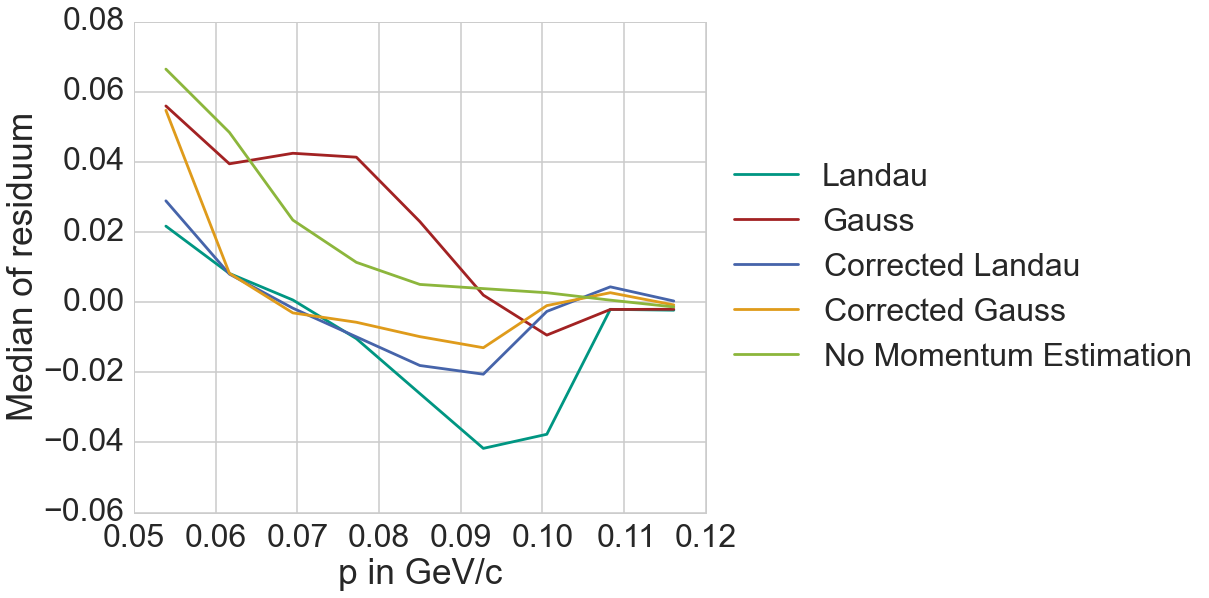
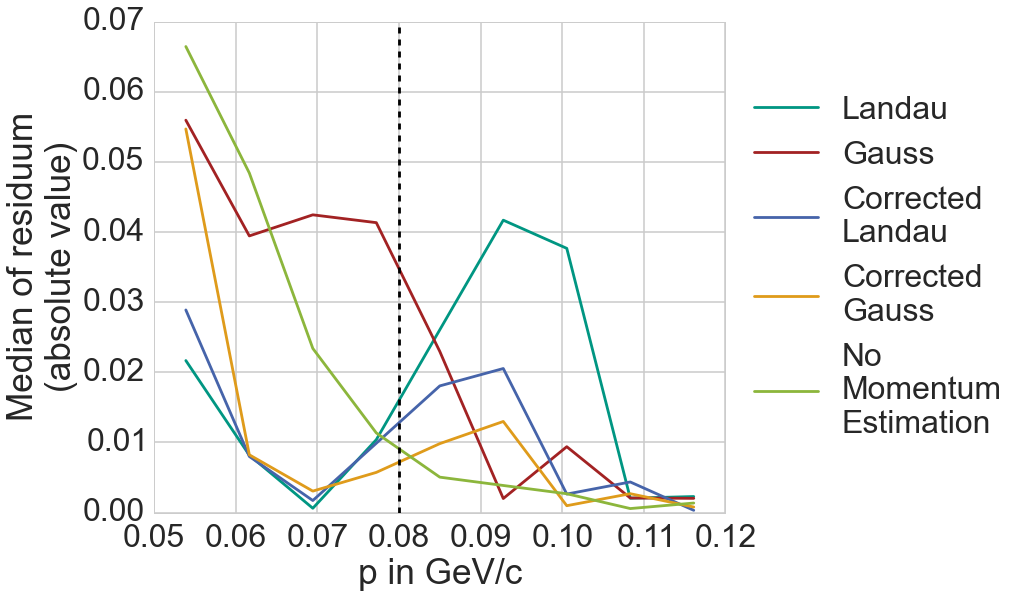
Thomas corrections

diff --git a/tex/vxd.tex b/tex/vxd.tex
@@ -38,7 +38,6 @@ For the following studies an event sample of 35000 events with slow pions in the
  \centering
  \includegraphics[width=0.48\linewidth]{figures/vxd/finding_efficiency.png}
  \includegraphics[width=0.48\linewidth]{figures/vxd/finding_efficiency_mc.png}
- \todo{why is there a drop?}
  \caption[Momentum distribution of the found and simulated pions.]{Momentum distribution of the simulated pions as found by the VXD track finder (left) and the MC track finder (right), which has the simulated truth information. The finding efficiency decreases with lower momenta as the number of hits in the VXD is lower for slow pions and the energy loss is larger. The MC track finder does not have a flat distribution of momenta either, because it requires tracks which have at least 3 hits in the VXD detector.}
  \label{fig-vxd-finding-efficiency}
 \end{figure}
@@ -80,7 +79,7 @@ The different possibilities are ordered by their anticipated correctness. The tw
 Besides the last possibility, all modes rely on calculating the path length of a trajectory using their helix parameters. As the path lengths are very small, this is done without taking into account energy loss or material effects. The procedure is as follows:
 \begin{zlist}
  \item Take the position of the cluster hit (the point where the trajectory enters the VXD sensor) and calculate the distance to the beam line. This is called the inner radius of the cluster.
- \item Add the sensor thickness to this radius to obtain an estimation of the outer radius of the sensor.\footote{This could also be done using a lookup to the database with the sensor specifications. But as all sensors in one detector have the same thickness, this would just lead to an increased performance time and not to more precise results.}
+ \item Add the sensor thickness to this radius to obtain an estimation of the outer radius of the sensor.\footnote{This could also be done using a lookup to the database with the sensor specifications. But as all sensors in one detector have the same thickness, this would just lead to an increased performance time and not to more precise results.}
  \item Calculate the arc length between these two radii and from this arc length the distance between the two penetration points of the helix through the sensor using trigonometrical relations.
 \end{zlist}
 
@@ -93,7 +92,7 @@ This procedure is correct for most of the time but fails in some rare cases. Som
   \raisebox{-0.65\height}{\includegraphics[scale=0.3]{figures/vxd/pathlength3.pdf}}
   \hspace*{0.5cm}
   \raisebox{-0.5\height}{\includegraphics[scale=0.3]{figures/vxd/pathlength4b.pdf}}
-  \caption[Exemplary cases of path length calculations.]{Exemplary cases of path length calculations. The algorithm fails in the second and last case. In the second case it returns the width or the length of the sensor instead. In the last case it wrongly adds the orange part of the path length to the correct one. Because of the geometrical dimensions of the sensors these two cases are very rare.}
+  \caption[Exemplary cases of path length calculations.]{Exemplary cases of path length calculations. The algorithm fails in the second and last case. In the second case it returns the width or the length of the sensor instead. In the last case it wrongly adds the orange part of the path length to the correct one. This could corrected by using a lookup in the geometry database, but because of the geometrical dimensions of the sensors these two cases are very rare.}
   \label{fig-errors-in-path-length}
 \end{figure}
 
@@ -119,7 +118,7 @@ with the free parameters $a, b, c$ and $d$ is fitted to the $\mathrm d E / \math
 
 
 \footnotetext{The box in the boxplot indicates the quartile range, whereas the big horizontal lines describes the median value. The smaller horizontal lines at the top and at the bottom show the maximum and minimum value -- except for outliers.}
-The free parameters can not be determined by fitting the model function to the whole dataset at once as shown for example in figure~\ref{fig-dedx-over-p}. The reason is that because of the Landau distributed energy loss the number of outliers is too high and causes the fit to fail. An example of the Landau distribution showing the large amount of outliers deviating from the mean energy loss is shown in figure~\ref{fig-landau}. This is why a reducing approach is chosen here: First the $\mathrm d E / \mathrm d x$-range is split into several small bins. In each of them the momentum distribution is build. This distribution is then fitted with a Landau or a normal distribution. Mathematically, the momentum distribution in these $\mathrm d E / \mathrm d x$-bins is neither distributed according to a Landau nor a normal distribution but the correct form can not be calculated analytically and these two distributions describe the data best.\footnote{The correct form of the distribution can be calculated by integrating over parts of the Landau distribution folded with the inverted Bethe-equation, which is not analytically solvable.} The resulting parameters of the distributions (the mean of the normal or the location parameter of the Landau distribution~\cite{landau}) are then used for fitting the model function in equation (\ref{form-model}). The whole process can be seen in figure~\ref{fig-fit-bins}.
+The free parameters can not be determined by fitting the model function to the whole dataset at once as shown for example in figure~\ref{fig-dedx-over-p}. The reason is that because of the Landau distributed energy loss the number of outliers is too high and causes the fit to fail. An example of the Landau distribution showing the large amount of outliers deviating from the mean energy loss is shown in figure~\ref{fig-landau}. This is why a reducing approach is chosen here, which can be imagined as a simplified maximum likelihood fit: First the $\mathrm d E / \mathrm d x$-range is split into several small bins. In each of them the momentum distribution is build. This distribution is then fitted with a Landau or a normal distribution. Mathematically, the momentum distribution in these $\mathrm d E / \mathrm d x$-bins is neither distributed according to a Landau nor a normal distribution but the correct form can not be calculated analytically and these two distributions describe the data best.\footnote{The correct form of the distribution can be calculated by integrating over parts of the Landau distribution folded with the inverted Bethe-equation, which is not analytically solvable.} The resulting parameters of the distributions (the mean and the variance of the normal or the location parameter and full width at half maximum of the Landau distribution~\cite{landau}) are then used for fitting the model function in equation (\ref{form-model}). The whole process can be seen in figure~\ref{fig-fit-bins}.
 
 \begin{figure}
   \centering
@@ -138,18 +137,18 @@ The free parameters can not be determined by fitting the model function to the w
 
 For the incorporation of the gained momentum estimation into the track fit of genfit, not the momentum value directly but $q/p$ is needed. This is why in the following the residuum of $p^{-1}$ instead of $p$ is presented.
 
-In the two subplots of figure~\ref{fig-divp-residuum} the median and the interquartile range of the residuum of the estimated to the MC momentum is shown. As both fit functions (normal and Landau) lead to quite large shifts in the median, indicating a biased momentum estimation a correction procedure is introduced: a cubic polynomial is fitted to the median values which is later subtracted from the momentum estimation. These corrected estimators are also shown in the figure. They do unbias the residuum but increase the interquartile range as a trade-off.
+In the two subplots of figure~\ref{fig-divp-residuum} the median and the interquartile range of the residuum of the estimated to the MC momentum is shown. The median and the interquartile range (distance between the 25th percentile and the 75th percentile) are used here, as they are more robust compared to the mean and the standard deviation. As both fit functions (normal and Landau) lead to quite large shifts in the median, indicating a biased momentum estimation, a correction procedure is introduced: a cubic polynomial is fitted to the median values which is later subtracted from the momentum estimation. These corrected estimators are also shown in the figure. They do unbias the residuum but increase the interquartile range as a trade-off.
 
 \begin{figure}
   \centering
    \includegraphics[width=0.48\linewidth]{figures/vxd/divPMedian.png}
    \includegraphics[width=0.48\linewidth]{figures/vxd/divPIQR.png}
-  \caption[Median and IQR of $1/p$.]{The median (left) and the interquartile range (right) of the residuum between $1/p$ calculated with the estimator function and the MC information over the MC momentum. For all path length calculations the MC information at the hit is used. Together with the two fit functions Landau and normal distribution also the median-corrected estimators (as described in the text) are shown.}
+  \caption[Median and IQR of $1/p$.]{The absolute value of the median (left) and the interquartile range (right) of the residuum between $1/p$ calculated with the estimator function and the MC information over the MC momentum. For all path length calculations the MC information at the hit is used. Together with the two fit functions Landau and normal distribution also the median-corrected estimators (as described in the text) are shown.}
   \label{fig-divp-residuum}
 \end{figure}
 
 
-Besides the here presented two methods to gain the estimator function $p(\mathrm dE/\mathrm dx)$, also other fit models instead of equation (\ref{form-model}), other fit functions instead of Landau and normal distribution and totally different methods like a boosted decision tree for regressions were tested. As all of these methods show worse results, they are not presented here. They can be easily compared to the mentioned results by using the IPython notebooks in the repository.
+Besides the here presented two methods to obtain the estimator function $p(\mathrm dE/\mathrm dx)$, also other fit models instead of equation (\ref{form-model}), other fit functions instead of Landau and normal distribution and totally different methods like a boosted decision tree for regressions were tested. As all of these methods show worse results, they are not presented here. They can be easily compared to the mentioned results by using the IPython notebooks in the basf2 repository.
 
 \section{Incorporation in the track fit}
 
@@ -157,33 +156,25 @@ Before describing the results of the momentum resolution with and without the ne
 
 The idea of the genfit package as a generalized track fitting package is not to rely on a certain detector configuration but rather treat the measured hits in a general form. For this, every hit is transformed into a derived class of an \texttt{AbsMeasurement}. This measurement can hold up to five general coordinate measurements, which are two local coordinates $u$ and $v$, two local direction coordinates $u'$ and $v'$ and a coordinate for $q/p$. The measurement stores also the error matrix of these measurements and a generalized plane one which the measurements and the local coordinates are defined. The user does not have to provide all coordinate measurement in every \texttt{AbsMeasurement}. This general scheme makes it possible to incorporate all different results of the measuring detectors, e.g. VXD hits (which define a plane as the sensor plane and give one coordinate measurement of $u$ or $v$ for each strip in the case of SVD hits and both coordinates for PXD hits) or CDC wire hits (where the definition of a plane is more difficult, leading to a redefinition of the plane in every fit iteration). As the real detector measurements are uncoupled from the fitting algorithm, the implemented fitters do not have to be adopted to cope with different detectors.
 
-To include the momentum estimation based on the \dedx value into the fit, one has therefore to include another \texttt{AbsMeasurement} into the tracks for each VXD hit which is only filled with the $q/p$-coordinate and has the same plane as the positional measurement for this VXD hit. Another possibility would be to include this coordinate in the already created positional measurements (by filling the two local positions $u$ and $v$ and the $q/p$ coordinate). The downside of this approach is that the DAF described in chapter~\ref{chapter-theory} is then only able to downweight the whole measurement with the positional and the momentum coordinates and not the single measurement types only.
+To include the momentum estimation based on the \dedx value into the fit, one has therefore to include another \texttt{AbsMeasurement} into the tracks for each VXD hit which is only filled with the $q/p$-coordinate and has the same plane as the positional measurement for this VXD hit. Another possibility would be to include this coordinate in the already created positional measurements (by filling the two local positions $u$ and $v$ and the $q/p$ coordinate). The downside of this approach is that the DAF described in chapter~\ref{chapter-theory} is then only able to downweight the whole measurement with the positional and the momentum coordinates and not the single measurement types only as it is only able to give weights to the whole \texttt{AbsMeasurement}. Until the correct covariances of the momentum estimation is implemented, the fitting algorithm needs to be able to dismiss the newly created measurement if it is too far off. In the following however, only the Kalman will be used for fitting the tracks.
 
 \subsection{Code basis for the fitting procedure}
 
-While adding the momentum estimation to the VXD hits, the whole fitting framework in basf2 was rewritten to make it more flexible and general. The former \texttt{genfit::Track} and the \texttt{genfit::TrackCand} where merged into the \texttt{RecoTrack} based on the \texttt{genfit::Track} which suits better to the StoreArray-scheme of the framework. Together with the new \texttt{RecoTrack} also other modules for fitting had to be written. The former \texttt{GenFitter} module was split up into smaller modules, each handling a single task. In the following, only the \texttt{MeasurementCreatorModule} will be described. More information on the \texttt{RecoTrack} and the other modules can be found in chapter~\ref{chapter-addon}.
+While adding the momentum estimation to the VXD hits, the whole fitting framework in basf2 was rewritten to make it more flexible and general. The former \texttt{genfit::Track} and the \texttt{genfit::TrackCand} where merged into the \texttt{RecoTrack} based on the \texttt{genfit::Track} which suits the StoreArray-scheme of the framework better. Together with the new \texttt{RecoTrack} also other modules for fitting had to be written. The former \texttt{GenFitter} module was split up into smaller modules, each handling a single task. More technical details on the \texttt{RecoTrack} and the newly created modules can be found in chapter~\ref{chapter-addon}.
 
-The task of this module is to create the measurements for each hit added to the \texttt{RecoTrack} by the track finding algorithms. The measurements can then be used by the track fitting routine. The \texttt{MeasurementCreatorModule} does so by calling configurable \texttt{MeasurementCreator} objects on all hits which can create a measurement out of the hit and the \texttt{RecoTrack}. There are preconfigured \texttt{MeasurementCreator} classes for turning the found hits into normal positional measurements like it was done before by the \texttt{GenFitterModule}. To handle the configuration of these \texttt{MeasurementCreator} objects in an easier way, the factory design pattern was used for the module. Each type of \texttt{MeasurementCreator} objects (for looping over SVD, PXD or CDC hits found by the track finder or for no underlaying track finder hit at all) has an \texttt{MeasurementCreatorFactory}. These factories handle the configuration and initialization of the \texttt{MeasurementCreator} objects which in turn create measurements and add them to the \texttt{RecoTrack}. The configuration of the factories can be done via dictionaries passed as module parameters in the steering files. The whole process is shown in figure~\ref{fig-measurement-creator}.
-
-\begin{figure}
-  \centering
-  \includegraphics[width=\linewidth]{figures/vxd/measurementCreator.pdf}
-  \caption[Diagram showing the creation of measurements.]{Diagram showing the creation of measurements in the \texttt{MeasurementCreatorModule} as described in the text. Each \texttt{RecoTrack} includes PXD, SVD and CDC hits (blue) added by the track finder algorithms which must be transformed into \texttt{AbsMeasurement} objects (orange) to be handled by the track fitting routine later. These measurements can include positional, directional and/or $q/p$ coordinate values with their errors.}
-  \label{fig-measurement-creator}
-\end{figure}
-
-The momentum estimation of the VXD hits is included into the fit as another measurement -- created by a \texttt{MeasurementCreator} object. The measurements are created before the track fit but get called for their parameters in every fitting iteration right before the fit uses the coordinates in the measurement. This fact can be used to calculate the plane (as used in the CDC hits) or the coordinates just before using them. Therefore it is possible to use the fitted state right in front of the hit to calculate the path length as described in subsection~\ref{subsection-calc}. Together with the estimation for $q/p$, also the error on this coordinate has to be included into the \texttt{AbsMeasurement}. This error can be calculated using the MC momentum used for calculating the estimator function and comparing it to the estimator function result. The error is fixed to 0.3 in the moment, which was calculated using the $q/p$ distribution shown before, but can in principle be also calculated for every measurement independently.
+The momentum estimation of the VXD hits is included into the fit as another measurement. The measurements are created before the track fit but get called for their parameters in every fitting iteration right before the fit uses the coordinates in the measurement. This fact can be used to calculate the plane (as used in the CDC hits) or the coordinates just before using them. Therefore it is possible to use the fitted state right in front of the hit to calculate the path length as described in subsection~\ref{subsection-calc}. Together with the estimation for $q/p$, also the error on this coordinate has to be included into the \texttt{AbsMeasurement}. This error can be calculated using the MC momentum used for calculating the estimator function and comparing it to the estimator function result. The relative error is fixed to 0.3 in the moment, which was calculated using the $q/p$ distribution shown before, but can in principle be also calculated for every measurement independently.
 
 \subsection{Resolution after track fitting}
 
-The above described estimation is included as a \texttt{MeasurementCreator} for SVD and PXD hits. With this, the pion tracks in the momentum range of 50 -- 100 MeV are fitted using the Kalman filter. Then the momentum calculated in the fit is compared to the one used in the MC simulation. To show the resolution in an easier way, the median and the interquartile range for the residuum is calculated. They can be seen in figure~\ref{fig-results-fit} for both fit functions Landau and Gauß (with their median-corrected estimators also) and for the different path length calculations in figure~\ref{fig-results-fit2}.
+The above described estimation is included as a \texttt{MeasurementCreator} for SVD and PXD hits. With this, the pion tracks in the momentum range of 50 -- 100 MeV are fitted using the Kalman filter. Then the momentum calculated in the fit is compared to the one used in the MC simulation. To show the resolution in an easier way, the median and the interquartile range for the residuum is calculated. They can be seen in figure~\ref{fig-results-fit} for both fit functions Landau and Gauß (with their median-corrected estimators also) and for the different path length calculations in figure~\ref{fig-results-fit2} together with the distribution for the Landau fit function for a particular value of the momentum.
 
 \begin{figure}
   \centering
   \includegraphics[width=0.48\linewidth]{figures/vxd/kalman0_3Median.png}
   \includegraphics[width=0.48\linewidth]{figures/vxd/kalman0_3IQR.png}
   \includegraphics[width=0.48\linewidth]{figures/vxd/kalman0_3Count.png}
-  \caption[Residuum of the momentum estimation for different fit functions.]{Figure showing the median (top left) and the interquartile range (top right) for the residuum between the MC momentum and the momentum coming from the track fit with or without the momentum estimation based on the energy loss information. The two different fit functions Landau and norm (like described in subsection~\ref{subsection-transform}) are both shown here. The third plot (bottom) shows the number of successful fits.}
+  \includegraphics[width=0.48\linewidth]{figures/vxd/residuum_histogram.png}
+  \caption[Residuum of the momentum estimation for different fit functions.]{Figure showing the absolute value of the median (top left) and the interquartile range (top right) for the residuum between the MC momentum and the momentum coming from the track fit with or without the momentum estimation based on the energy loss information. The two different fit functions Landau and norm (like described in subsection~\ref{subsection-transform}) are both shown here. The third plot (bottom left) shows the number of successful fits and the last plot (bottom right) an exemplary histogram of the $q/p$-residuum for tracks in the order of $\unit[60]{MeV}$.}
   \label{fig-results-fit}
 \end{figure}
 
@@ -193,13 +184,13 @@ The above described estimation is included as a \texttt{MeasurementCreator} for 
   \includegraphics[width=0.48\linewidth]{figures/vxd/landauKalman0_3Median.png}
   \includegraphics[width=0.48\linewidth]{figures/vxd/landauKalman0_3IQR.png}
   \includegraphics[width=0.48\linewidth]{figures/vxd/landauKalman0_3Count.png}
-  \caption[Residuum of the momentum estimation for different path length calculations.]{Figure showing the median (top left) and the interquartile range (top right) of the residuum and the number of successful fits (bottom) as in figure~\ref{fig-results-fit}. This time the different path length calculations are shown for the case of using a Landau distribution for fitting the \dedx values.}
+  \caption[Residuum of the momentum estimation for different path length calculations.]{Figure showing the absolute value of the median (top left) and the interquartile range (top right) of the residuum and the number of successful fits (bottom) as in figure~\ref{fig-results-fit}. This time the different path length calculations are shown for the case of using a Landau distribution for fitting the \dedx values.}
   \label{fig-results-fit2}
 \end{figure}
 
-As it can be seen in the result figures, the incorporation of the VXD momentum estimation into the track fit can increase the resolution of the momentum quite drastically for low momentum tracks while also increasing the number of successful fits. As the Landau seems to perform slightly better than the Gauß fitted estimator function, these values are used in the following. Although the median-corrected functions should theoretically behave better, the resolution could not be increased. This may come from the worsen interquartile range of the corrected estimators as seen in figure~\ref{fig-divp-residuum}. The differences between the different path length calculations are not that big as expected from the prestudies of the path lengths. As described before, the calculation with the MC track parameters at the hit perform best followed by the track parameters at the hit while fitting. The differences are very small as the fitted parameters and the MC parameters are similar enough. For momenta above 100 MeV the estimator gives worse results as it can be also seen in figure~\ref{fig-dedx-over-p}. This is why the momentum resolution deteriorates for higher momenta. There is already a cut for only applying the momentum estimation for low-momentum-tracks, but because of implementation details in the genfit package this cut can only be evaluated before the fit -- using the track finder seed parameters. As these parameters often underestimate the momentum (because of energy losses due to material effects), the momentum estimation gets applied although the estimator is not build for this momentum region. To solve this problem, a ``smarter'' cut should be introduced.
+As it can be seen in the result figures, the incorporation of the VXD momentum estimation into the track fit can increase the resolution of the momentum quite drastically for low momentum tracks (figure top right) in the range below $\unit[80]{MeV}$. Additionally and also important it increases the number of successful fits (figure bottom left). To not bias the analysis with the newly fitted tracks, the studies were also performed by using only those tracks that were fitted in all of the mentioned methods which leads to the same results and is therefore not presented here. As the Landau seems to perform slightly better than the Gauß fitted estimator function (overall IQR of the $q/p$-residuum of 0.0929 compared to 0.0951 for Gauß), these values are used in the following. Although the median-corrected functions should theoretically behave better, the resolution could not be increased. This may come from the worsen interquartile range of the corrected estimators as seen in figure~\ref{fig-divp-residuum}. The differences between the different path length calculations are not that big as expected from the prestudies of the path lengths. As described before, the calculation with the MC track parameters at the hit performs best followed by the track parameters at the hit while fitting. The differences are very small as the fitted parameters and the MC parameters are similar enough. The reslution could however only be increased for momenta below $\unit[80]{MeV}$. The reason is, that for momenta above $\unit[80]{MeV}$ the estimator gives worse results as it can be also seen in figure~\ref{fig-dedx-over-p}. There is already a cut for only applying the momentum estimation for low-momentum-tracks, but because of implementation details in the genfit package this cut can only be evaluated before the fit -- using the track finder seed parameters. As these parameters often underestimate the momentum (because of energy losses due to material effects), the momentum estimation gets applied although the estimator is not build for this momentum region. To solve this problem, a ``smarter'' cut should be introduced, e.g.\ by giving large errors on the momentum estimations in tracks where they should not be used.
 
-Besides the momentum resolution, the resolution of the other helix parameters should not be decreased by the momentum estimation measurements. The perigee position of the fitted tracks with and without the momentum estimation with the Landau fit function and path lengths from the track fit state is shown in figure~\ref{fig-position}. As all tracks where simulated using a particle gun at the origin, the position should be exactly zero. For better comparison with the typical validation plots shown in the collaboration, the VXD and CDC tracks are merged and fitted together. As it can be seen in the picture, the resolution in the position is reduced by introducing the momentum estimation into the fit. One reason for this is probably the neglected correlation between the momentum estimation and the position measurement. Another issue is the fixed error of the momentum estimation, which can bias the fit. The resolution in the $z$ coordinate stays equally good -- only the $x$ and $y$ coordinates are affected. Further analysis must be done to increase the resolution of the perigee position again.
+Besides the momentum resolution, the resolution of the other helix parameters should not be decreased by the momentum estimation measurements. The perigee position of the fitted tracks with and without the momentum estimation with the Landau fit function and path lengths from the track fit state is shown in figure~\ref{fig-position}. As all tracks where simulated using a particle gun at the origin, the position should be exactly zero. For better comparison with the typical validation plots shown in the collaboration, the VXD and CDC tracks are merged and fitted together. As it can be seen in the picture, the resolution in the position is reduced by introducing the momentum estimation into the fit. One possible reason for this is probably the neglected correlation between the momentum estimation and the position measurement. Another issue is the fixed error of the momentum estimation, which can bias the fit. However, the final reason for the deterioration could not be determined during this thesis and further analysis is needed. The resolution in the $z$ coordinate stays equally good -- only the $x$ and $y$ coordinates are affected.
 
 \begin{figure}
   \centering
@@ -225,19 +216,22 @@ Besides the momentum resolution, the resolution of the other helix parameters sh
 %   \label{fig-pull}
 % \end{figure}
 
-The next analysis is concerning the errors included into the momentum measurement. As the error is included as a fixed value for all momenta, it is not expected to be correct. Nevertheless the p-value of the whole track fit is presented in figure~\ref{fig-p-values} with and without the VXD momentum estimation again with CDC and VXD tracks merged. The error introduced in the new measurement seems to be underestimated which causes the p-value to shift to smaller values. This can be caused by the fixed value of the error for all momenta (which is definitely wrong as the residuum distribution behaves differently for different momenta as seen in figure~\ref{fig-results-fit}). Another reason is the distribution of \dedx for a fixed momenta -- a Landau distribution -- which has a long tail towards higher energy losses and can therefore not be described well by a gaussian distribution (which must be used to calculate the error in genfit). Here is probably much room for improvement in further developments.
+The next analysis is concerning the errors included into the momentum measurement. As the error is included as a fixed value for all momenta, it is not expected to be correct. Nevertheless the p-value of the whole track fit is presented in figure~\ref{fig-p-values} with and without the VXD momentum estimation again with CDC and VXD tracks merged. The error introduced in the new measurement seems to be underestimated which causes the p-value to shift to smaller values. This can be caused by the fixed value of the error for all momenta (which is definitely wrong as the residuum distribution behaves differently for different momenta as seen in figure~\ref{fig-results-fit}). Another reason is the distribution of \dedx for a fixed momenta -- a Landau distribution -- which has a long tail towards higher energy losses and can therefore not be described well by a gaussian distribution (which must be used to calculate the error in genfit in the current implementation). Here is probably much room for improvement in further developments.
 
 \begin{figure}
   \centering
-  \includegraphics[width=0.7\linewidth]{figures/vxd/pValue.png}
+  \includegraphics[width=0.67\linewidth]{figures/vxd/pValue.png}
   \caption[P-values of the whole track fit]{P-values of the whole track fit with and without the VXD momentum estimation for merged CDC and VXD tracks with the Landau fit function and path lengths calculated with the current fit state. The p-value is much lower with the VXD momentum estimation indicating underestimated errors introduced in the fit.}
   \label{fig-p-values}
 \end{figure}
 
+\section{Further possibilities}
+
+A different approach was used in other experiments~\cite{sergey}: the fitting algorithm calculates the energy loss in every sensor when handling the material effects in every fit step. This energy loss can be compared to the one measured by the sensors and the fit parameters can be corrected. This method has the benefit of not needing a momentum estimator function for transforming the \dedx value to a momentum estimation as it uses the raw \dedx information. It also does not need to calculate the path length by using a helix parametrization but uses the step length in every fit step. The downside of this approach is, that it relies on a correctly calibrated measured energy loss in the sensor with which it can compare. Another disadvantage is that the energy loss measurement can not be handled in the same way as the other measurements and there is no possibility to downweight it in the DAF algorithm or include the correlation to the coordinate measurements, which is in principle possible with the implemented algorithm (although not used yet). When it comes to the underestimated error because of the Landau tail and the condition when to include this momentum estimation, this approach shares the same problems as the here presented.
 
 \section{Conclusion and further possibilities}
 
-By introducing a new measurement type into the fit of VXD tracks using a generated momentum estimator function and the \dedx value, the resolution of the momentum after the fit could be increased for low momenta tracks. The handling of the error of this measurement and the correlations to the other coordinates (especially the local position coordinates) must be further analyzed to enhance the position information and the p-values again. Also a better handling of the decision when to apply the momentum estimation should be included. The \texttt{MeasurementCreator} and the measurement type of the VXD momentum estimation should be constructed in such a way to handle these improvements.
+By introducing a new measurement type into the fit of VXD tracks using a generated momentum estimator function and the \dedx value, the resolution of the momentum after the fit could be increased for low momenta tracks. The handling of the error of this measurement and the correlations to the other coordinates (especially the local position coordinates) must be further analyzed to enhance the position information and the p-values again. Also a better handling of the decision when to apply the momentum estimation should be included. The \texttt{MeasurementCreator} and the measurement type of the VXD momentum estimation are constructed in such a way to handle these improvements.
 
-A different approach was used in other experiments~\cite{sergey}: the fitting algorithm calculates the energy loss in every sensor when handling the material effects in every fit step. This energy loss can be compared to the one measured by the sensors and the fit parameters can be corrected. This method has the benefit of not needing a momentum estimator function for transforming the \dedx value to a momentum estimation as it uses the raw \dedx information. It also does not need to calculate the path length by using a helix parametrization but uses the step length in every fit step. The downside of this approach is, that it relies on a correctly calibrated measured energy loss in the sensor with which it can compare. Another disadvantage is that the energy loss measurement can not be handled in the same way as the other measurements and there is no possibility to downweight it in the DAF algorithm or include the correlation to the coordinate measurements. When it comes to the underestimated error because of the Landau tail and the condition when to include this momentum estimation, this approach shares the same problems as the here presented.
+
 

diff --git a/tex/addon.tex b/tex/addon.tex
@@ -43,20 +43,19 @@ Together with the already described convenience-functions to add and receive raw
 Together with the \RecoTrack dataobject, four modules where written which altogether have the same functionalities as the \texttt{GenfitterModule} but split up to improve the configurability. These modules are
 \begin{description}
  \item[RecoTrackCreatorModule] Although the \RecoTrack should replace the \texttt{genfit::Track\-Cand} in the future, it is easily possible to include the \RecoTrack workflow into the module path without rewriting all the track finder modules with the \texttt{Reco\-Track\-Creator\-Module}. The module transforms an ingoing StoreArray of \texttt{genfit::\ Track\-Cand} objects into \RecoTrack instances and creates the needed relations between the track candidates and the tracks.
- \item[MeasurementCreatorModule] As described before, this module is responsible for transforming the added raw hits of the \RecoTrack into track points. It uses highly configurable \texttt{MeasurementCreatorFactory} objects which can add arbitrary track points (which is used for adding the momentum estimations in the VXD).
+ \item[MeasurementCreatorModule] This module is responsible for transforming the added raw hits of the \RecoTrack into track points. It uses highly configurable \texttt{MeasurementCreatorFactory} objects which can add arbitrary track points (which is used for adding the momentum estimations in the VXD) out of the raw hits added by the track finding algorithms. A sketch of the working principle of the module can be found in figure~\ref{fig-measurement-creator}.
  \item[BaseFitterModule] This module and its derived modules \texttt{KalmanRecoFitter} and \texttt{DAF\-Reco\-Fitter} are responsible for creating an object of the genfit fitting algorithm and passing this to every \RecoTrack to use it for fitting. When doing this, also the preparation functions for the fit are called.
  \item[TrackBuilderFromRecoTracksModule] In the end, not the whole track but only the perigee parameters are important for the physics analysis. Therefore this module extrapolates the tracks to the perigee with the extrapolation methods provided by genfit. It saves its results in \texttt{Belle2::Track} objects which are used in the analysis later.
 \end{description}
 
 The named modules together with the \texttt{SetupGenfitExtrapolationModule} in front of them should run in the given order in the usual use case.
 
-% \begin{figure}
-%   \centering
-%   \todo{picture}
-%   %\includegraphics[width=\linewidth]{figures/addon/recoFitterModules.pdf}
-%   \caption[Modules for fitting \RecoTrack objects.]{The described modules for fitting the \RecoTrack objects in the typical order and with the typical input and output parameters. See figure~\ref{fig-viz-datastore} for a description of the colors and labels.}
-%   \label{fig-reco-fitter-modules}
-% \end{figure}
+\begin{figure}
+  \centering
+  \includegraphics[width=\linewidth]{figures/vxd/measurementCreator.pdf}
+  \caption[Diagram showing the creation of measurements.]{Diagram showing the creation of measurements in the \texttt{MeasurementCreatorModule} as described in the text. Each \texttt{RecoTrack} includes PXD, SVD and CDC hits (blue) added by the track finder algorithms which must be transformed into \texttt{AbsMeasurement} objects (orange) to be handled by the track fitting routine later. These measurements can include positional, directional and/or $q/p$ coordinate values with their errors.}
+  \label{fig-measurement-creator}
+\end{figure}
 
 
 \section{IPython interface for basf2}
